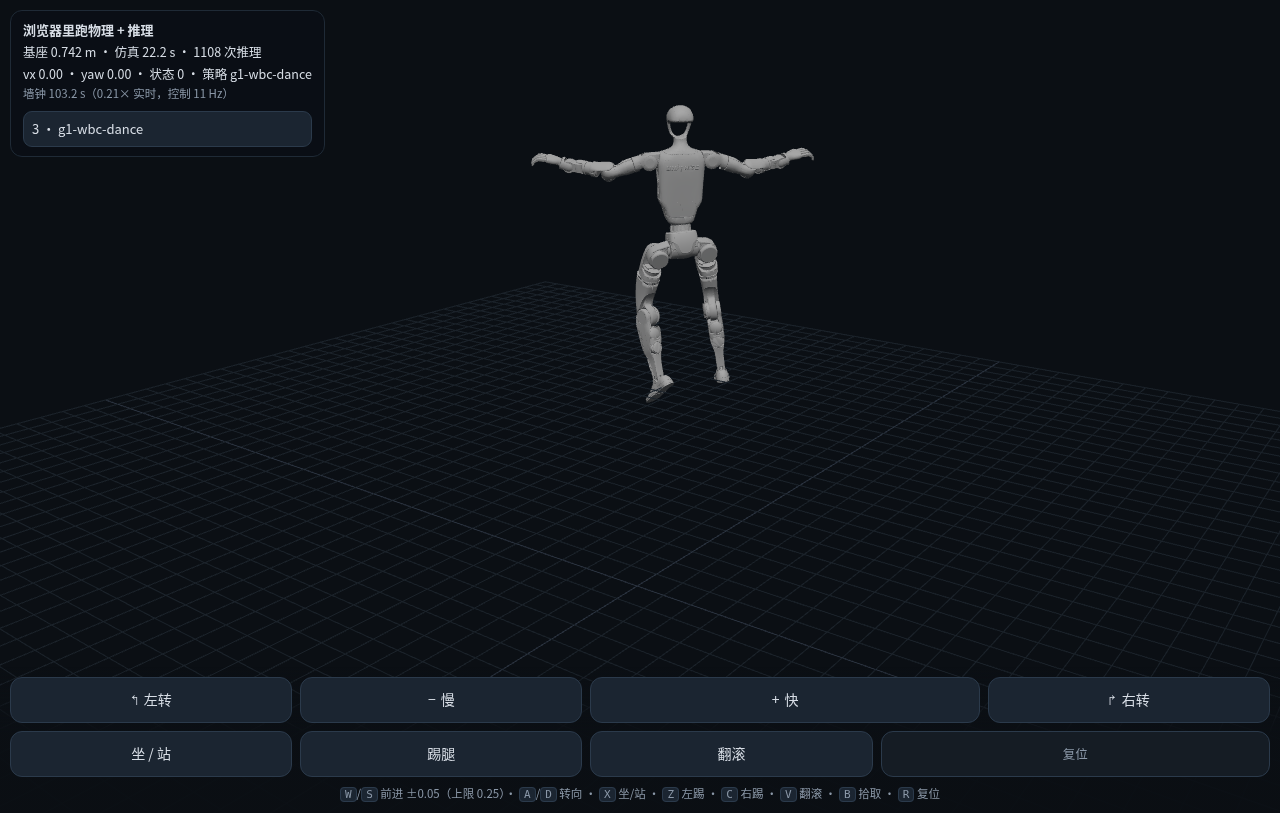
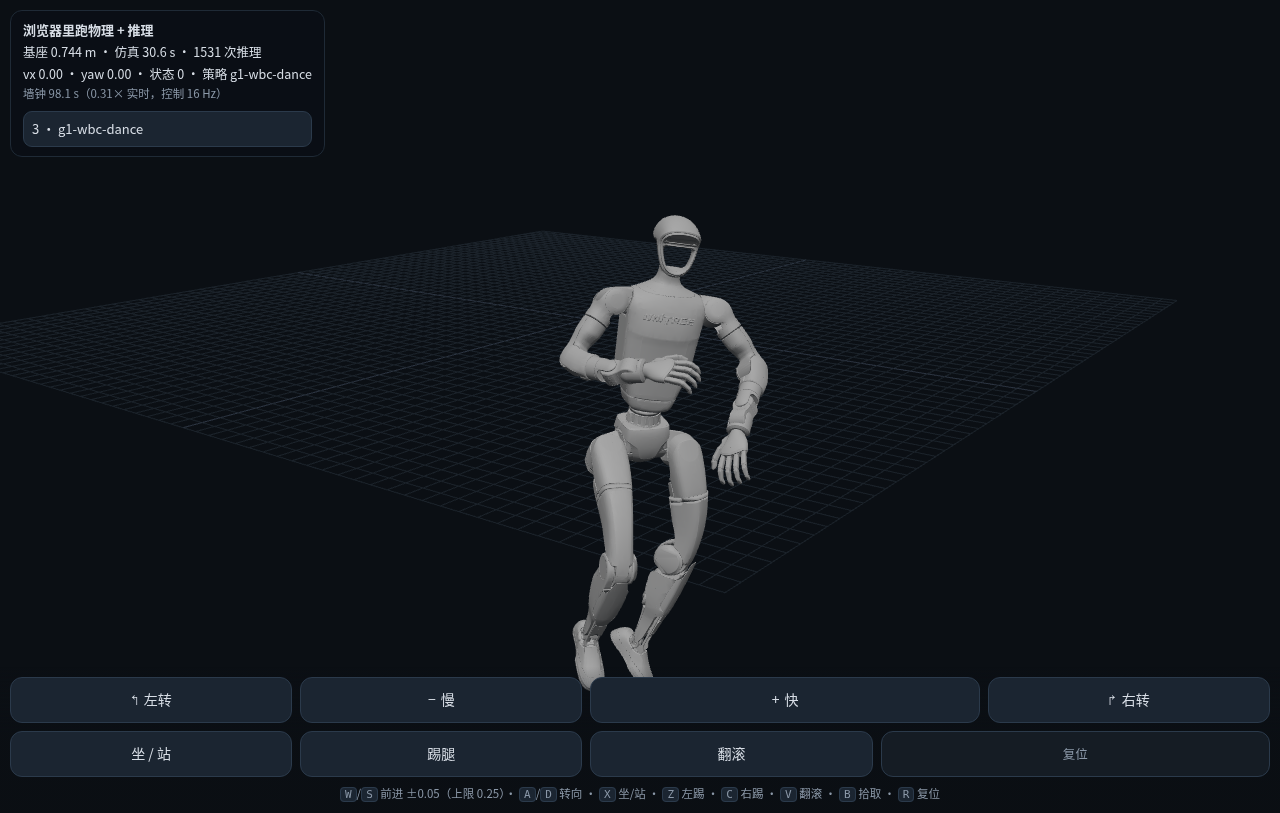
fix: 浏览器动作不走/脚形状怪/跑出画面三处（state.ctrl 笔误、碰撞体误渲染、相机跟随）

Changed region(s): [[0.4062, 0.123, 0.625, 0.861], [0.0312, 0.0923, 0.1875, 0.123]]

diff --git a/client/viewer/play.js b/client/viewer/play.js
@@ -125,7 +125,7 @@ async function main() {
     const assets = {};
     let done = 0;
     // bundle 里网格在 DATA + 'meshes/'，手搓素材在 ./assets/mjcf/
-    const meshBase = BUNDLE ? DATA + 'meshes/' : './assets/mjcf/';
+    const meshBase = BUNDLE ? DATA : './assets/mjcf/';
     const needFetch = BUNDLE ? await json(DATA + 'meshes.json') : stlNames;
     await step(`下载 ${needFetch.length} 个 STL`, Promise.all(needFetch.map(async (n) => {
       assets[n] = await bytes(meshBase + n);
@@ -162,17 +162,21 @@ async function main() {
         if (nm) bodyOf[nm] = { group: built.groups[b], bid: b };
       }
       // 相机按模型大小取景：body 原点在 Z-up 系里，先换到世界系（robotGroup 有 -90° 绕 X）
+      mj.mj_forward(model, data);   // 取景前先刷一次前向，geom_xpos 才是有效值
       const bbox = new THREE.Box3();
-      for (let b = 1; b < model.nbody; b += 1) {
+      for (let gi = 0; gi < model.ngeom; gi += 1) {
+        if (model.geom_contype[gi] !== 0 || model.geom_conaffinity[gi] !== 0) continue;
         bbox.expandByPoint(new THREE.Vector3(
-          read(data.xpos, b * 3), read(data.xpos, b * 3 + 1), read(data.xpos, b * 3 + 2)));
+          read(data.geom_xpos, gi * 3), read(data.geom_xpos, gi * 3 + 1), read(data.geom_xpos, gi * 3 + 2)));
       }
-      const zSpan = Math.max(0.6, bbox.getSize(new THREE.Vector3()).length() * 1.15);
-      const localCenter = bbox.isEmpty() ? new THREE.Vector3(0, 0, 0.5) : bbox.getCenter(new THREE.Vector3());
-      localCenter.z = Math.max(localCenter.z, zSpan * 0.45);
+      const size3 = bbox.isEmpty() ? new THREE.Vector3(0.4, 0.4, 1.3) : bbox.getSize(new THREE.Vector3());
+      const zSpan = Math.max(0.9, Math.max(size3.x, size3.y, size3.z));
+      const localCenter = bbox.isEmpty() ? new THREE.Vector3(0, 0, 0.7) : bbox.getCenter(new THREE.Vector3());
+      robotGroup.updateMatrixWorld(true);          // 不刷新的话 localToWorld 用的是过期矩阵
       const worldCenter = robotGroup.localToWorld(localCenter.clone());
       controls.target.copy(worldCenter);
-      camera.position.set(worldCenter.x + zSpan * 1.5, worldCenter.y + zSpan * 0.85, worldCenter.z + zSpan * 2.0);
+      const dist = zSpan * 1.9;
+      camera.position.set(worldCenter.x + dist * 0.85, worldCenter.y + dist * 0.42, worldCenter.z + dist * 1.15);
       camera.updateProjectionMatrix();
       controls.update();
       stage('渲染：用 MuJoCo 网格');
@@ -383,7 +387,8 @@ async function main() {
       // 动作参考：进入 WBC 后播放（起步先停几帧让机器人站住，和宿主一致）
       let motionRefValue = null;
       if (motion && playhead) {
-        if (playhead.paused && state.ctrl >= 10) playhead.pause(false);
+        // 起步先停 10 个控制步让机器人站稳，再放参考（和宿主 DUCK_WBC_SETTLE 一致）
+        if (playhead.paused && ctrl >= 10) playhead.pause(false);
         const baseQuat = [0, 1, 2, 3].map((k) => read(duck.data.qpos, 3 + k));
         motionRefValue = motionRef(motion, playhead, baseQuat);
         playhead.advance();
@@ -440,12 +445,24 @@ async function main() {
       ctrl += 1;
     }
 
+    // 相机跟随：机器人会跳/走，静止相机很快就出画。保持用户当前的观察偏移，只平移目标点。
+    const pelvisId = mj.mj_name2id(model, duck.objId('mjOBJ_BODY'), 'pelvis');
+    const followTarget = new THREE.Vector3();
     function render() {
       for (const name of Object.keys(bodyOf)) {
         const { group, bid } = bodyOf[name];
         group.position.set(read(data.xpos, bid * 3), read(data.xpos, bid * 3 + 1), read(data.xpos, bid * 3 + 2));
         group.quaternion.set(read(data.xquat, bid * 4 + 1), read(data.xquat, bid * 4 + 2),
                              read(data.xquat, bid * 4 + 3), read(data.xquat, bid * 4));
+      }
+      if (pelvisId >= 0) {
+        robotGroup.updateMatrixWorld(true);
+        followTarget.set(read(data.xpos, pelvisId * 3), read(data.xpos, pelvisId * 3 + 1),
+                         read(data.xpos, pelvisId * 3 + 2));
+        robotGroup.localToWorld(followTarget);
+        const offset = camera.position.clone().sub(controls.target);
+        controls.target.lerp(followTarget, 0.08);
+        camera.position.copy(controls.target).add(offset);
       }
       resize();
       controls.update();
@@ -529,6 +546,8 @@ function renderFromModel({ THREE, mj, model, data, duck, robotGroup, scene }) {
   const meshCache = new Map();
   const mjGEOM_MESH = mj.mjtGeom.mjGEOM_MESH.value ?? 7;
   for (let gi = 0; gi < model.ngeom; gi += 1) {
+    // 只画视觉 geom（contype = conaffinity = 0）。碰撞体会把「脚」画成薄壳/方块，看着像残影。
+    if (model.geom_contype[gi] !== 0 || model.geom_conaffinity[gi] !== 0) continue;
     const type = model.geom_type[gi];
     const bodyId = model.geom_bodyid[gi];
     const group = groups[bodyId];

diff --git a/sim/host/export_artifacts.py b/sim/host/export_artifacts.py
@@ -284,8 +284,7 @@ def main() -> int:
         with open(os.path.join(out, "robot.xml"), "w", encoding="utf-8") as f:
             f.write(xml)
         meshes = sorted({m for m in re.findall(r'file="([^"]+\.(?:stl|STL|obj|OBJ))"', xml)})
-        mesh_out = os.path.join(out, "meshes")
-        os.makedirs(mesh_out, exist_ok=True)
+        mesh_out = out          # 网格直接放 bundle 根：meshdir="." 对宿主和浏览器都成立
         copied = 0
         for name in meshes:
             path = os.path.join(assets_dir, name)
@@ -294,7 +293,7 @@ def main() -> int:
                 copied += 1
         with open(os.path.join(out, "meshes.json"), "w", encoding="utf-8") as f:
             json.dump([n for n in meshes if os.path.exists(os.path.join(mesh_out, n))], f)
-        print(f"  物理模型 robot.xml + {copied} 个网格 → meshes/")
+        print(f"  物理模型 robot.xml + {copied} 个网格（bundle 根）")
 
     print(f"  策略 {len(policies)} 个｜契约 contract.json")
     return 0

diff --git a/docs/notes/g1-botlab.md b/docs/notes/g1-botlab.md
@@ -385,7 +385,18 @@ bundle 里没有手搓的 GLB 索引（那是鸭子专用），所以 `play.js` 
 `renderFromModel()`：直接用 MuJoCo 的 `mesh_vert/mesh_face` 建 three.js 几何体，
 按 `geom_rgba` 上色，相机按机器人自身包围盒取景（鸭子 ~0.2 m、G1 ~1.3 m 差一个数量级）。
 
+### 三个「看起来像渲染问题」的问题，根因都不是渲染
+
+1. **脚一直像垫着、动作不走**：`play.js` 里判断「起步 10 步后放参考」写成了 `state.ctrl >= 10`，
+   而 `state` 上没有 `ctrl` 这个字段 → 恒为 `undefined >= 10`（false）→ **播放头永远暂停**，
+   机器人一直保持第一帧的姿态，看起来就是「垫着脚不动」。改成循环里的 `ctrl` 就好了。
+2. **脚形状怪（薄壳/方块）**：`renderFromModel()` 把**碰撞 geom 也画了出来**（G1 的碰撞体是
+   30 个薄壳 contour 网格）。现在只画视觉 geom（`contype = conaffinity = 0`，正好 36 个）。
+3. **机器人跑出画面**：相机只在加载时取景一次，机器人跳着跳着就出画。现在相机跟随
+   pelvis（保持用户当前的观察偏移，只平移目标点），并且取景前先 `mj_forward` +
+   `updateMatrixWorld`（否则矩阵是过期的，取景会偏）。
+
 ### 还差
 
 - 浏览器侧的 `fsm` 模式切换（现在单策略 bundle 默认常开 WBC；多 mode bundle 还没接）；
-- 工作台里如果 bundle 很大（G1 带网格 31 MB），首次加载要几十秒，可以再压网格。
+- G1 bundle 31 MB（36 个 STL），首次加载几十秒，网格可以再压。
